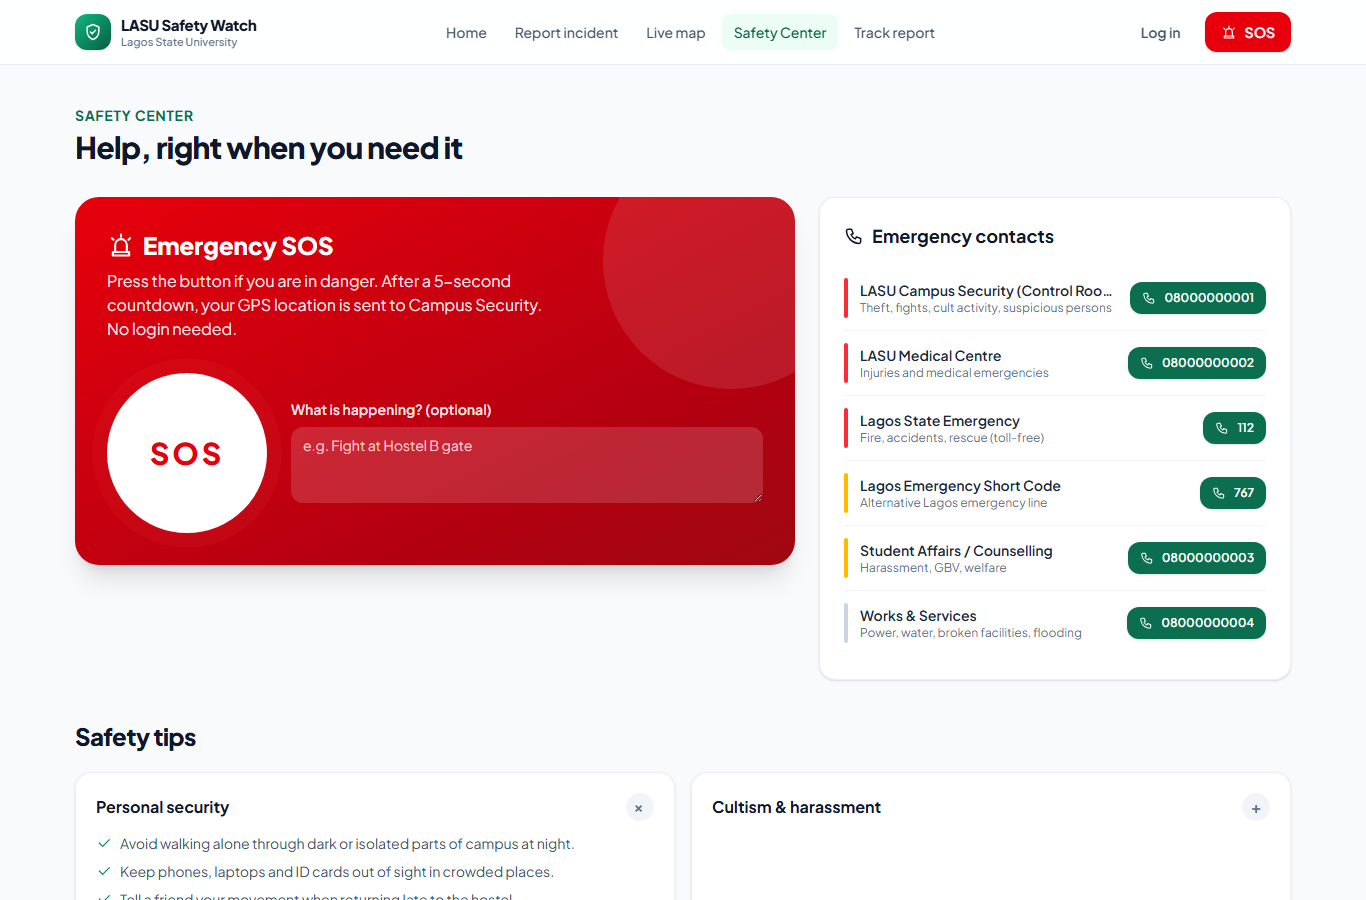
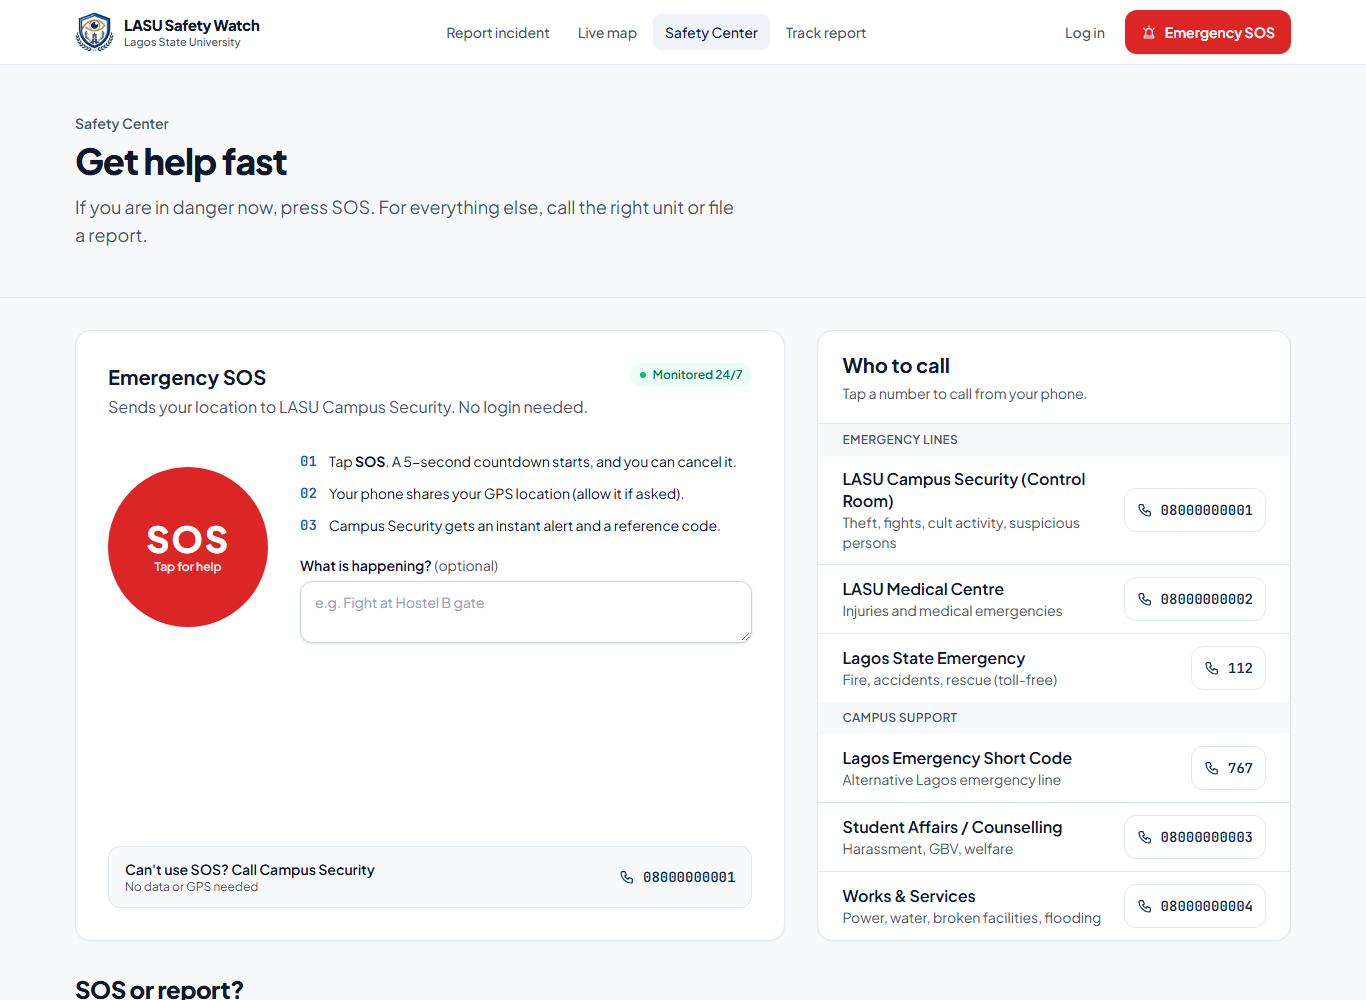
Redesign Safety Center: calm civic layout
White SOS panel with red reserved for the SOS button only, numbered
how-it-works steps, phone fallback; grouped 'Who to call' list with full
names and 48px+ tap targets; new 'SOS or report?' guidance; cleaner
safety tips. Removes the red gradient card and decorative circle.

diff --git a/resources/views/public/safety.blade.php b/resources/views/public/safety.blade.php
@@ -1,108 +1,172 @@
 @extends('layouts.public')
 @php $title = 'Safety Center'; @endphp
 
+{{-- Civic layout: white surfaces, navy text, red reserved for the SOS trigger itself. --}}
 @section('content')
-<div class="container-app py-10">
-    <div class="max-w-2xl">
-        <p class="text-sm font-bold uppercase tracking-wider text-brand-700">Safety Center</p>
-        <h1 class="mt-1 text-3xl font-extrabold tracking-tight text-slate-900">Help, right when you need it</h1>
+@php
+    $contacts = collect(config('lsw.contacts'));
+    $urgent = $contacts->where('level', 'critical');
+    $support = $contacts->where('level', '!=', 'critical');
+@endphp
+
+<section class="border-b border-line bg-surface">
+    <div class="container-app py-10 sm:py-12">
+        <p class="text-sm font-semibold text-muted">Safety Center</p>
+        <h1 class="mt-2 text-3xl font-extrabold leading-[1.1] tracking-[-0.03em] text-ink sm:text-4xl">Get help fast</h1>
+        <p class="mt-3 max-w-2xl text-lg text-muted">If you are in danger now, press SOS. For everything else, call the right unit or file a report.</p>
     </div>
+</section>
 
-    <div class="mt-8 grid gap-6 lg:grid-cols-5">
-        {{-- SOS --}}
-        <section id="sos" class="scroll-mt-24 lg:col-span-3" x-data="sosButton('{{ route('sos') }}')">
-            <div class="relative overflow-hidden rounded-3xl bg-gradient-to-br from-red-600 to-red-800 p-8 text-white shadow-xl">
-                <div class="absolute -right-16 -top-16 size-64 rounded-full bg-white/10"></div>
-                <div class="relative">
-                    <h2 class="flex items-center gap-2 text-2xl font-extrabold"><x-icon name="siren" class="size-7" />Emergency SOS</h2>
-                    <p class="mt-2 max-w-md text-red-100">Press the button if you are in danger. After a 5-second countdown, your GPS location is sent to Campus Security. No login needed.</p>
+<div class="container-app grid gap-6 py-8 lg:grid-cols-[3fr_2fr] lg:gap-8">
 
-                    <div class="mt-8 flex flex-col items-center gap-6 sm:flex-row sm:items-center">
-                        {{-- idle --}}
-                        <template x-if="stage === 'idle'">
-                            <button type="button" @click="start()" class="sos-pulse grid size-40 shrink-0 place-items-center rounded-full border-8 border-white/30 bg-white text-3xl font-black tracking-widest text-red-600 shadow-2xl transition hover:scale-105">SOS</button>
-                        </template>
-                        {{-- countdown --}}
-                        <template x-if="stage === 'countdown'">
-                            <div class="grid size-40 shrink-0 place-items-center rounded-full border-8 border-white/30 bg-red-900/40">
-                                <span class="text-6xl font-black" x-text="count"></span>
-                            </div>
-                        </template>
-                        <template x-if="stage === 'sending'">
-                            <div class="grid size-40 shrink-0 place-items-center rounded-full border-8 border-white/30 bg-red-900/40 text-center text-sm font-bold">Sending…</div>
-                        </template>
-                        <template x-if="stage === 'sent' || stage === 'error'">
-                            <div class="grid size-40 shrink-0 place-items-center rounded-full border-8 border-white/30 bg-white text-red-600">
-                                <x-icon name="check" class="size-16" x-show="stage === 'sent'" /><x-icon name="alert" class="size-16" x-show="stage === 'error'" />
-                            </div>
-                        </template>
+    {{-- ================= SOS ================= --}}
+    <section id="sos" class="card flex scroll-mt-24 flex-col p-6 sm:p-8" x-data="sosButton('{{ route('sos') }}')" aria-labelledby="sos-title">
+        <div class="flex items-start justify-between gap-4">
+            <div>
+                <h2 id="sos-title" class="text-xl font-bold text-ink">Emergency SOS</h2>
+                <p class="mt-1 text-muted">Sends your location to LASU Campus Security. No login needed.</p>
+            </div>
+            <span class="hidden shrink-0 items-center gap-1.5 rounded-full bg-emerald-50 px-2.5 py-1 text-xs font-semibold text-emerald-700 sm:inline-flex">
+                <span class="size-1.5 rounded-full bg-emerald-500"></span> Monitored 24/7
+            </span>
+        </div>
 
-                        <div class="w-full flex-1">
-                            <div x-show="stage === 'idle'">
-                                <label class="text-sm font-semibold text-red-100" for="note">What is happening? (optional)</label>
-                                <textarea id="note" x-model="note" rows="3" maxlength="300" class="mt-1.5 w-full rounded-xl border-0 bg-white/15 px-3 py-2 text-sm text-white placeholder:text-red-200 focus:ring-2 focus:ring-white" placeholder="e.g. Fight at Hostel B gate"></textarea>
-                            </div>
-                            <div x-show="stage === 'countdown'" x-cloak>
-                                <p class="text-lg font-bold">Sending alert in <span x-text="count"></span>s…</p>
-                                <div class="mt-3 flex gap-2">
-                                    <button @click="send()" class="btn bg-white text-red-700 hover:bg-red-50">Send now</button>
-                                    <button @click="cancel()" class="btn border border-white/40 text-white hover:bg-white/10">Cancel</button>
-                                </div>
-                            </div>
-                            <div x-show="stage === 'sending'" x-cloak><p class="text-lg font-bold">Getting your location and alerting Security…</p></div>
-                            <div x-show="stage === 'sent'" x-cloak>
-                                <p class="text-lg font-bold">Alert sent to Campus Security.</p>
-                                <p class="mt-1 text-sm text-red-100" x-text="exact ? 'Your exact GPS location was shared. Stay where you are if it is safe.' : 'Your exact location could not be read. Please also call Campus Security.'"></p>
-                                <p class="mt-2 text-sm">Reference: <b class="font-mono" x-text="reference"></b></p>
-                                <button @click="stage = 'idle'" class="btn mt-3 border border-white/40 text-white hover:bg-white/10">Done</button>
-                            </div>
-                            <div x-show="stage === 'error'" x-cloak>
-                                <p class="text-lg font-bold">Alert could not be sent.</p>
-                                <p class="mt-1 text-sm text-red-100" x-text="reference + ' Call the numbers on this page.'"></p>
-                                <button @click="stage = 'idle'" class="btn mt-3 bg-white text-red-700">Try again</button>
-                            </div>
-                        </div>
+        <div class="mt-8 grid items-center gap-8 sm:grid-cols-[auto_1fr]">
+            {{-- The single red element on this page --}}
+            <div class="flex justify-center">
+                <button type="button" x-show="stage === 'idle'" @click="start()" data-sos-trigger
+                        class="sos-pulse grid size-40 place-items-center rounded-full bg-sos text-white shadow-lg ring-8 ring-red-50 transition hover:scale-[1.03] focus:outline-none focus-visible:ring-red-200">
+                    <span class="text-center">
+                        <span class="block text-4xl font-black tracking-wider">SOS</span>
+                        <span class="block text-xs font-semibold opacity-90">Tap for help</span>
+                    </span>
+                </button>
+                <div x-show="stage === 'countdown'" x-cloak class="grid size-40 place-items-center rounded-full border-4 border-ink bg-white">
+                    <span class="text-center">
+                        <span class="block font-mono text-6xl font-semibold text-ink" x-text="count"></span>
+                        <span class="block text-xs font-semibold text-muted">seconds</span>
+                    </span>
+                </div>
+                <div x-show="stage === 'sending'" x-cloak class="grid size-40 place-items-center rounded-full border-4 border-line bg-white text-sm font-semibold text-muted">Sending…</div>
+                <div x-show="stage === 'sent'" x-cloak class="grid size-40 place-items-center rounded-full bg-emerald-50 text-emerald-700"><x-icon name="check" class="size-16" /></div>
+                <div x-show="stage === 'error'" x-cloak class="grid size-40 place-items-center rounded-full bg-amber-50 text-amber-700"><x-icon name="alert" class="size-16" /></div>
+            </div>
+
+            <div aria-live="polite">
+                {{-- idle --}}
+                <div x-show="stage === 'idle'">
+                    <ol class="space-y-3 text-sm">
+                        <li class="flex gap-3"><span class="font-mono font-semibold text-brand-500">01</span><span class="text-ink">Tap <b>SOS</b>. A 5-second countdown starts, and you can cancel it.</span></li>
+                        <li class="flex gap-3"><span class="font-mono font-semibold text-brand-500">02</span><span class="text-ink">Your phone shares your GPS location (allow it if asked).</span></li>
+                        <li class="flex gap-3"><span class="font-mono font-semibold text-brand-500">03</span><span class="text-ink">Campus Security gets an instant alert and a reference code.</span></li>
+                    </ol>
+                    <label for="note" class="mt-5 block text-sm font-semibold text-ink">What is happening? <span class="font-normal text-muted">(optional)</span></label>
+                    <textarea id="note" x-model="note" rows="2" maxlength="300" class="input mt-1.5" placeholder="e.g. Fight at Hostel B gate"></textarea>
+                </div>
+                {{-- countdown --}}
+                <div x-show="stage === 'countdown'" x-cloak>
+                    <p class="text-lg font-bold text-ink">Sending alert in <span class="font-mono" x-text="count"></span>s</p>
+                    <p class="mt-1 text-sm text-muted">Pressed by mistake? Cancel now.</p>
+                    <div class="mt-4 flex flex-wrap gap-3">
+                        <button type="button" @click="cancel()" class="btn-light btn-lg">Cancel</button>
+                        <button type="button" @click="send()" class="btn-primary btn-lg">Send now</button>
                     </div>
                 </div>
+                {{-- sending --}}
+                <p x-show="stage === 'sending'" x-cloak class="text-lg font-semibold text-ink">Getting your location and alerting Campus Security…</p>
+                {{-- sent --}}
+                <div x-show="stage === 'sent'" x-cloak>
+                    <p class="text-lg font-bold text-ink">Alert sent to Campus Security</p>
+                    <p class="mt-1 text-sm text-muted" x-text="exact ? 'Your GPS location was shared. Stay where you are if it is safe.' : 'Your exact location could not be read. Please also call Campus Security.'"></p>
+                    <p class="mt-3 text-sm text-muted">Reference <span class="font-mono font-semibold text-ink" x-text="reference"></span></p>
+                    <button type="button" @click="stage = 'idle'" class="btn-light mt-4">Done</button>
+                </div>
+                {{-- error --}}
+                <div x-show="stage === 'error'" x-cloak>
+                    <p class="text-lg font-bold text-ink">The alert could not be sent</p>
+                    <p class="mt-1 text-sm text-muted" x-text="reference + ' Call Campus Security using the numbers on this page.'"></p>
+                    <button type="button" @click="stage = 'idle'" class="btn-light mt-4">Try again</button>
+                </div>
             </div>
-        </section>
+        </div>
 
-        {{-- Contacts --}}
-        <section class="card p-6 lg:col-span-2">
-            <h2 class="flex items-center gap-2 text-lg font-bold text-slate-900"><x-icon name="phone" />Emergency contacts</h2>
-            <ul class="mt-4 divide-y divide-slate-100">
-                @foreach (config('lsw.contacts') as $c)
-                    <li class="flex items-center gap-3 py-3">
-                        <span class="h-10 w-1 rounded-full {{ ['critical' => 'bg-red-500', 'high' => 'bg-amber-400', 'normal' => 'bg-slate-300'][$c['level']] }}"></span>
-                        <div class="min-w-0 flex-1">
-                            <p class="truncate text-sm font-semibold text-slate-800">{{ $c['name'] }}</p>
-                            <p class="truncate text-xs text-slate-500">{{ $c['desc'] }}</p>
-                        </div>
-                        <a href="tel:{{ $c['phone'] }}" class="btn-primary shrink-0 px-3 py-2 text-xs"><x-icon name="phone" class="size-3.5" />{{ $c['phone'] }}</a>
+        @php $security = $urgent->first(); @endphp
+        <div class="mt-auto pt-8">
+            <a href="tel:{{ $security['phone'] }}" class="flex min-h-14 items-center justify-between gap-4 rounded-xl border border-line bg-surface px-4 py-3 transition hover:border-brand-500">
+                <span>
+                    <span class="block text-sm font-semibold text-ink">Can't use SOS? Call Campus Security</span>
+                    <span class="block text-xs text-muted">No data or GPS needed</span>
+                </span>
+                <span class="inline-flex items-center gap-2 font-mono text-sm font-semibold text-brand-700"><x-icon name="phone" class="size-4" />{{ $security['phone'] }}</span>
+            </a>
+        </div>
+    </section>
+
+    {{-- ================= CONTACTS ================= --}}
+    <section class="card overflow-hidden" aria-labelledby="contacts-title">
+        <div class="border-b border-line px-6 py-5">
+            <h2 id="contacts-title" class="text-xl font-bold text-ink">Who to call</h2>
+            <p class="mt-1 text-sm text-muted">Tap a number to call from your phone.</p>
+        </div>
+        @foreach ([['Emergency lines', $urgent], ['Campus support', $support]] as [$group, $list])
+            <p class="bg-surface px-6 py-2 text-xs font-semibold uppercase tracking-wide text-muted">{{ $group }}</p>
+            <ul class="divide-y divide-line">
+                @foreach ($list as $c)
+                    <li>
+                        <a href="tel:{{ $c['phone'] }}" class="flex min-h-16 items-center gap-4 px-6 py-3 transition hover:bg-surface focus-visible:bg-surface focus-visible:outline-none">
+                            <span class="min-w-0 flex-1">
+                                <span class="block font-semibold leading-snug text-ink">{{ $c['name'] }}</span>
+                                <span class="block text-sm text-muted">{{ $c['desc'] }}</span>
+                            </span>
+                            <span class="inline-flex min-h-11 shrink-0 items-center gap-2 rounded-xl border border-line bg-white px-3 font-mono text-sm font-semibold text-brand-700">
+                                <x-icon name="phone" class="size-4" />{{ $c['phone'] }}
+                            </span>
+                        </a>
                     </li>
                 @endforeach
             </ul>
-        </section>
-    </div>
-
-    {{-- Tips --}}
-    <section class="mt-10">
-        <h2 class="text-2xl font-extrabold tracking-tight text-slate-900">Safety tips</h2>
-        <div class="mt-5 grid gap-4 md:grid-cols-2">
-            @foreach (config('lsw.tips') as $heading => $tips)
-                <div class="card p-5" x-data="{ open: {{ $loop->first ? 'true' : 'false' }} }">
-                    <button type="button" @click="open = !open" class="flex w-full items-center justify-between text-left font-bold text-slate-900">
-                        {{ $heading }}
-                        <span class="grid size-7 place-items-center rounded-full bg-slate-100 text-slate-500 transition" :class="open && 'rotate-45'">+</span>
-                    </button>
-                    <ul x-show="open" x-transition class="mt-3 space-y-2">
-                        @foreach ($tips as $tip)
-                            <li class="flex gap-2 text-sm text-slate-600"><x-icon name="check" class="mt-0.5 size-4 shrink-0 text-brand-600" />{{ $tip }}</li>
-                        @endforeach
-                    </ul>
-                </div>
-            @endforeach
-        </div>
+        @endforeach
     </section>
 </div>
+
+{{-- ================= SOS OR REPORT? ================= --}}
+<section class="container-app pb-4">
+    <h2 class="text-2xl font-extrabold tracking-[-0.02em] text-ink">SOS or report?</h2>
+    <div class="mt-5 grid gap-4 md:grid-cols-2">
+        <div class="card p-6">
+            <h3 class="font-bold text-ink">Use SOS when</h3>
+            <ul class="mt-3 space-y-2 text-sm text-ink">
+                @foreach (['You or someone near you is in danger right now', 'There is a fight, attack or cult threat happening', 'Someone is injured and needs help urgently'] as $item)
+                    <li class="flex gap-2"><x-icon name="check" class="mt-0.5 size-4 shrink-0 text-ink" />{{ $item }}</li>
+                @endforeach
+            </ul>
+        </div>
+        <div class="card p-6">
+            <h3 class="font-bold text-ink">Use a report when</h3>
+            <ul class="mt-3 space-y-2 text-sm text-ink">
+                @foreach (['It already happened and you are now safe', 'Something is broken: lights, water, roofs, drains', 'You want to report harassment confidentially'] as $item)
+                    <li class="flex gap-2"><x-icon name="check" class="mt-0.5 size-4 shrink-0 text-brand-500" />{{ $item }}</li>
+                @endforeach
+            </ul>
+            <a href="{{ route('report.create') }}" class="btn-primary btn-lg mt-5 w-full sm:w-auto">Report an Incident <x-icon name="arrow-right" class="size-5" /></a>
+        </div>
+    </div>
+</section>
+
+{{-- ================= TIPS ================= --}}
+<section class="container-app py-12">
+    <h2 class="text-2xl font-extrabold tracking-[-0.02em] text-ink">Stay safe on campus</h2>
+    <div class="mt-5 grid gap-x-10 gap-y-8 md:grid-cols-2">
+        @foreach (config('lsw.tips') as $heading => $tips)
+            <div class="border-t border-line pt-4">
+                <h3 class="font-bold text-ink">{{ $heading }}</h3>
+                <ul class="mt-3 space-y-2">
+                    @foreach ($tips as $tip)
+                        <li class="flex gap-2 text-sm leading-relaxed text-muted"><span class="mt-2 size-1.5 shrink-0 rounded-full bg-gold"></span>{{ $tip }}</li>
+                    @endforeach
+                </ul>
+            </div>
+        @endforeach
+    </div>
+</section>
 @endsection
